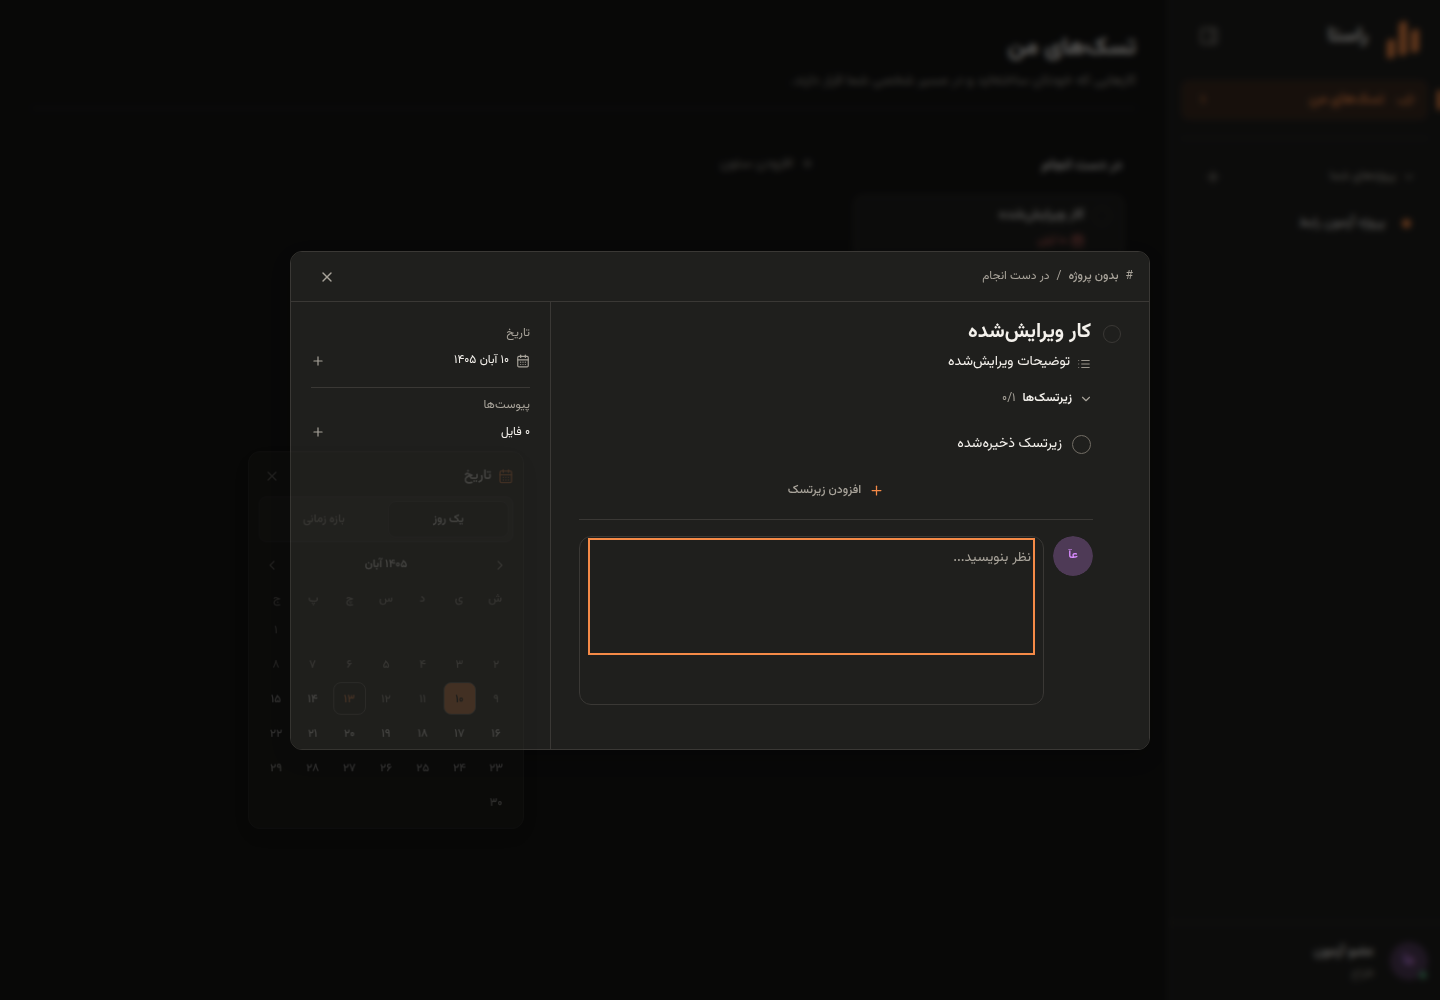
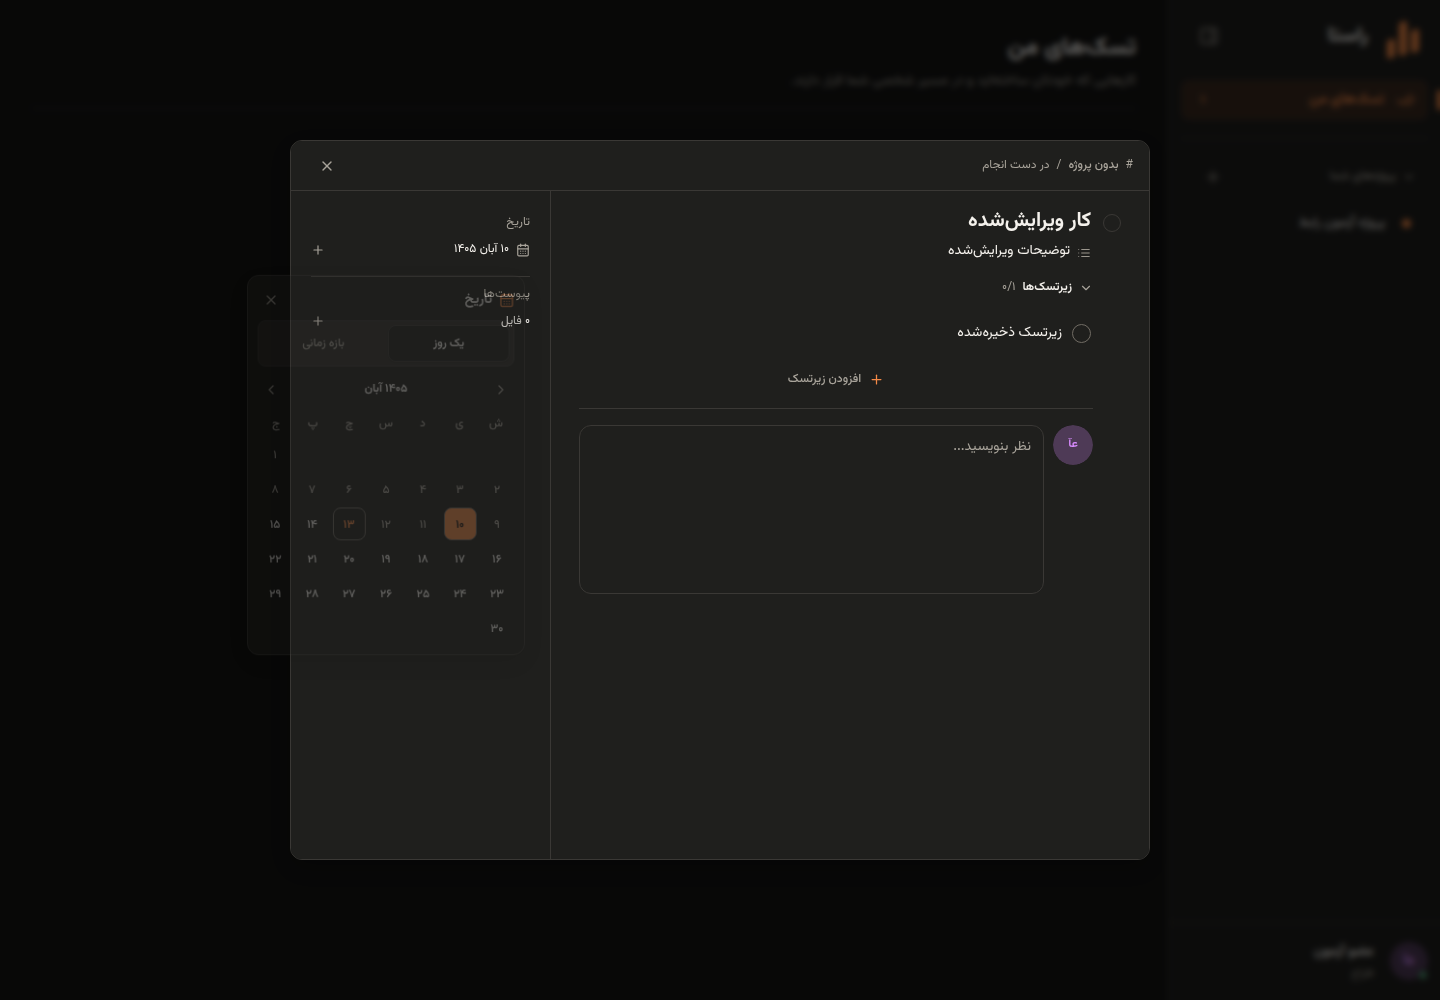
Give the existing task dialog the same height as a new task.

diff --git a/resources/css/app.css b/resources/css/app.css
@@ -3932,6 +3932,7 @@ fieldset {
     width: min(860px, calc(100vw - 32px));
     max-width: 860px;
     height: auto;
+    min-height: min(72vh, 720px);
     max-height: 85vh;
     border-radius: var(--radius-card);
     overflow: hidden;
@@ -3945,9 +3946,6 @@ fieldset {
     height: auto;
     min-height: 0;
     max-height: 100%;
-}
-.modal-panel.task-modal-panel.is-creating {
-    min-height: min(72vh, 720px);
 }
 .modal-panel.is-creating .task-editor-box .task-description-editor textarea {
     min-height: 96px !important;
@@ -4340,6 +4338,7 @@ fieldset {
     .modal-panel.task-modal-panel {
         width: calc(100vw - 12px);
         height: calc(100dvh - 12px);
+        min-height: 0;
         max-height: calc(100dvh - 12px);
     }
     .task-modal-grid {
